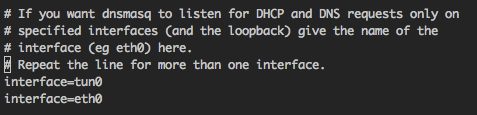
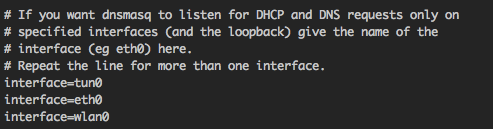
correction to interface updates

Changed region(s): [[0.0, 0.0522, 0.9686, 0.9391]]

diff --git a/_posts/2017-06-01-raspberry-pi-vpn-setup.md b/_posts/2017-06-01-raspberry-pi-vpn-setup.md
@@ -157,21 +157,20 @@ Note: tun0 refers to the VPN and eth0 refers to your LAN devices. If you have LA
 Step 4: On your Pi, run the following commands to edit the pihole config file in VIM. ([Crash course on VIM here.][vim])
 
 ```
-$ cd /etc/dnsmasq.d/
-$ sudo vi 01-pihole.conf
+$ sudo vi /etc/dnsmasq.conf
 ```
 
-Look for a line that begins with `#interface=` and add eth0 and tun0 as interfaces like so:
+Look for a line that begins with `#interface=` and add eth0 (ethernet connected devices), tun0 (VPN tunnel), and wlan0 (wireless devices) as interfaces (as needed) like so:
 
 <img src="{{url}}/images/pivpn-pihole/pihole-interface.png" class="img-responsive center-block" />
 
-Step 5: Restart dnsmasq:
+Step 5: Restart the Raspberry Pi:
 
 ```
-$ sudo systemctl restart dnsmasq
+$ sudo shutdown -r now
 ```
 
-All done - now sit back, relax, and watch those ads get blocked as you sip that fine whisk(e)y in your hand.
+Now wait a few minutes for it to reboot, and you're all done! Now sit back, relax, and watch those ads get blocked as you sip that fine whisk(e)y in your hand.
 
 Ad-free surfing, woohoo!
 
